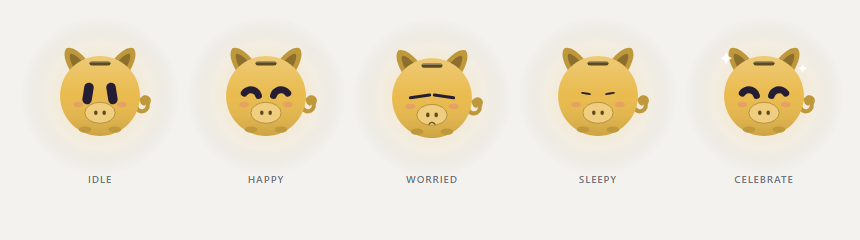
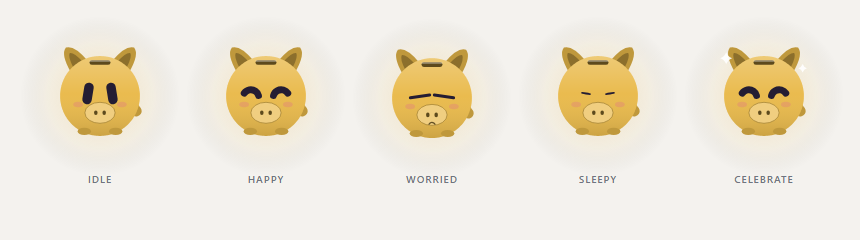
fix: keep the keeper attached while dragged
The body already deformed, but the snout, eyes, ears, slot, tail and feet were placed from the undeformed outline, so a diagonal pull left them floating. Every detail now goes through the same Gaussian displacement as the surface: decorations anchor on the deformed silhouette, rotate to its real normal and bury their base, and face features move by deformPoint. Verified against eight pull directions and ten shapes, at rest and at 45 degrees.

diff --git a/src/components/Mascot.tsx b/src/components/Mascot.tsx
@@ -5,7 +5,7 @@ import {
   deformOutline,
   followTarget,
   gripPhysics,
-  outlineCentroid,
+  deformPoint,
   pullTarget,
   type Point,
 } from "../lib/grab";
@@ -345,17 +345,8 @@ export function Mascot({
     const gaze = { x: 0, y: 0, tx: 0, ty: 0, seen: -10 };
     const radius = size * 0.3;
     const outline = bodyOutline(shape, radius);
-    const baseCenter = outlineCentroid(outline);
     // Decorations anchor to the real silhouette, so a pill or a star does not
     // leave the ears, the tail or the feet floating in empty space.
-    const pointAt = (angle: number): Point => {
-      if (outline.length === 0) {
-        return { x: Math.cos(angle) * radius * 0.92, y: Math.sin(angle) * radius * 0.92 };
-      }
-      const wrapped = ((angle % TAU) + TAU) % TAU;
-      const index = Math.round((wrapped / TAU) * outline.length) % outline.length;
-      return outline[index];
-    };
     const start = performance.now();
     let frame = 0;
     let nextBlink = 1.8;
@@ -400,6 +391,7 @@ export function Mascot({
       state.velocity += force * dt;
       state.value += state.velocity * dt;
     };
+
 
     const onPointerMove = (event: PointerEvent) => {
       const rect = hit.getBoundingClientRect();
@@ -608,12 +600,73 @@ export function Mascot({
 
       const bodyShade = shade(color, 0.82, 1);
 
+      // Everything below is anchored to the deformed outline, so the whole pig
+      // moves as one piece instead of leaving an ear, the slot or the snout
+      // behind when the body is pulled.
+      const deformed = deformOutline(
+        outline,
+        drag.anchorX,
+        drag.anchorY,
+        pullX.value,
+        pullY.value,
+        radius,
+      );
+      const body = outline.length > 0 ? pathFromPoints(deformed) : bodyPath(shape, radius);
+
+      const at = (angle: number): Point => {
+        if (deformed.length === 0) {
+          return { x: Math.cos(angle) * radius * 0.92, y: Math.sin(angle) * radius * 0.92 };
+        }
+        const wrapped = ((angle % TAU) + TAU) % TAU;
+        const index = Math.round((wrapped / TAU) * deformed.length) % deformed.length;
+        return deformed[index];
+      };
+      const move = (x: number, y: number) =>
+        deformPoint({ x, y }, drag.anchorX, drag.anchorY, pullX.value, pullY.value, radius);
+      // Rest position on the undeformed silhouette, scaled inwards, so a
+      // decoration starts buried in the body and is then moved by the same
+      // Gaussian the surface uses.
+      const restAt = (angle: number, scale = 1): Point => {
+        if (outline.length === 0) {
+          return {
+            x: Math.cos(angle) * radius * 0.92 * scale,
+            y: Math.sin(angle) * radius * 0.92 * scale,
+          };
+        }
+        const wrapped = ((angle % TAU) + TAU) % TAU;
+        const index = Math.round((wrapped / TAU) * outline.length) % outline.length;
+        const point = outline[index];
+        return { x: point.x * scale, y: point.y * scale };
+      };
+      const place = (angle: number, scale = 1): Point => {
+        const rest = restAt(angle, scale);
+        return move(rest.x, rest.y);
+      };
+      // Outward normal of the deformed surface, so a decoration stays glued to
+      // the silhouette instead of keeping the angle it had at rest.
+      const normalAt = (angle: number): number => {
+        if (deformed.length < 3) return angle;
+        const wrapped = ((angle % TAU) + TAU) % TAU;
+        const index = Math.round((wrapped / TAU) * deformed.length) % deformed.length;
+        const count = deformed.length;
+        const previous = deformed[(index - 1 + count) % count];
+        const next = deformed[(index + 1) % count];
+        const tangent = Math.atan2(next.y - previous.y, next.x - previous.x);
+        return tangent - Math.PI / 2;
+      };
+
       // Tail sits behind the body, on the right hip.
       if (tail) {
-        const anchor = pointAt(0.22);
+        const edge = at(0.22);
+        const normal = normalAt(0.22);
+        const inward = radius * 0.16;
+        const anchor = {
+          x: edge.x - Math.cos(normal) * inward,
+          y: edge.y - Math.sin(normal) * inward,
+        };
         context.save();
-        context.translate(anchor.x * 0.97, anchor.y * 0.97);
-        context.rotate(Math.atan2(anchor.y, anchor.x));
+        context.translate(anchor.x, anchor.y);
+        context.rotate(normal + Math.PI / 2);
         context.strokeStyle = bodyShade;
         context.lineWidth = Math.max(1.4, radius * 0.1);
         context.lineCap = "round";
@@ -629,10 +682,11 @@ export function Mascot({
       // Ears sit behind the body too, so only the tips show.
       if (ears) {
         for (const side of [-1, 1]) {
-          const anchor = pointAt(-Math.PI / 2 + side * 0.62);
+          const angle = -Math.PI / 2 + side * 0.62;
+          const anchor = at(angle);
           context.save();
-          context.translate(anchor.x * 0.98, anchor.y * 0.98);
-          context.rotate(Math.atan2(anchor.y, anchor.x) + Math.PI / 2);
+          context.translate(anchor.x, anchor.y);
+          context.rotate(normalAt(angle) + Math.PI / 2);
           context.beginPath();
           context.moveTo(-radius * 0.24, radius * 0.08);
           context.quadraticCurveTo(-radius * 0.2, -radius * 0.4, 0, -radius * 0.46);
@@ -653,21 +707,6 @@ export function Mascot({
         }
       }
 
-      const deformed = deformOutline(
-        outline,
-        drag.anchorX,
-        drag.anchorY,
-        pullX.value,
-        pullY.value,
-        radius,
-      );
-      const body = outline.length > 0 ? pathFromPoints(deformed) : bodyPath(shape, radius);
-      const deformedCenter = outlineCentroid(deformed);
-      const faceShift = {
-        x: deformedCenter.x - baseCenter.x,
-        y: deformedCenter.y - baseCenter.y,
-      };
-
       context.fillStyle = color;
       context.fill(body);
 
@@ -683,14 +722,15 @@ export function Mascot({
 
       // The coin slot is the detail that says "piggy bank" before anything else.
       if (slot) {
-        const anchor = pointAt(-Math.PI / 2);
+        const top = at(-Math.PI / 2);
+        const anchor = { x: top.x * 0.84, y: top.y * 0.84 };
         const width = radius * 0.5;
         const height = radius * 0.11;
         context.save();
         // The slot belongs to the body, so a star or a drop must clip it.
         context.clip(body);
-        context.translate(anchor.x * 0.82, anchor.y * 0.82);
-        context.rotate(Math.atan2(anchor.y, anchor.x) + Math.PI / 2);
+        context.translate(anchor.x, anchor.y);
+        context.rotate(normalAt(-Math.PI / 2) + Math.PI / 2);
         context.fillStyle = shade(color, 0.4, 1);
         context.beginPath();
         context.roundRect(-width / 2, -height / 2, width, height, height / 2);
@@ -701,9 +741,6 @@ export function Mascot({
         context.fill();
         context.restore();
       }
-
-      context.save();
-      context.translate(faceShift.x, faceShift.y);
 
       const sizeScale =
         (eyeSize === "small" ? 0.82 : eyeSize === "large" ? 1.22 : 1) * (hovering ? 1.035 : 1);
@@ -737,9 +774,10 @@ export function Mascot({
         const cheerful =
           happy > 0.55 && (style === "bars" || style === "dots" || style === "sleepy");
         const drawArc = closed || cheerful || style === "arcs";
+        const position = move(eyeX, eyeY - eyeLift);
 
         context.save();
-        context.translate(eyeX, eyeY - eyeLift);
+        context.translate(position.x, position.y);
         context.rotate(sadEyes ? side * 0.14 : side * tiltAngle);
         context.scale(1, Math.max(0.08, eyeOpen));
 
@@ -786,25 +824,19 @@ export function Mascot({
       if (blush) {
         context.fillStyle = "rgba(226, 110, 138, 0.3)";
         for (const side of [-1, 1]) {
+          const position = move(side * radius * 0.52, radius * 0.2);
           context.beginPath();
-          context.ellipse(
-            side * radius * 0.52,
-            radius * 0.2,
-            radius * 0.115,
-            radius * 0.065,
-            0,
-            0,
-            TAU,
-          );
+          context.ellipse(position.x, position.y, radius * 0.115, radius * 0.065, 0, 0, TAU);
           context.fill();
         }
       }
 
       if (snout) {
         const snoutY = radius * 0.4;
+        const centerPoint = move(0, snoutY);
         context.fillStyle = lighten(color, 0.3);
         context.beginPath();
-        context.ellipse(0, snoutY, radius * 0.36, radius * 0.25, 0, 0, TAU);
+        context.ellipse(centerPoint.x, centerPoint.y, radius * 0.36, radius * 0.25, 0, 0, TAU);
         context.fill();
         context.strokeStyle = shade(color, 0.7, 0.75);
         context.lineWidth = Math.max(1, radius * 0.02);
@@ -812,41 +844,33 @@ export function Mascot({
 
         context.fillStyle = shade(color, 0.4, 1);
         for (const side of [-1, 1]) {
+          const nostril = move(side * radius * 0.1, snoutY);
           context.beginPath();
-          context.ellipse(
-            side * radius * 0.1,
-            snoutY,
-            radius * 0.042,
-            radius * 0.055,
-            0,
-            0,
-            TAU,
-          );
+          context.ellipse(nostril.x, nostril.y, radius * 0.042, radius * 0.055, 0, 0, TAU);
           context.fill();
         }
       }
 
       if (moodSad) {
+        const frown = move(0, radius * 0.66);
         context.strokeStyle = shade(color, 0.35, 0.9);
         context.lineWidth = Math.max(1.1, radius * 0.03);
         context.lineCap = "round";
         context.beginPath();
-        context.arc(0, radius * 0.66, radius * 0.08, Math.PI * 1.15, Math.PI * 1.85);
+        context.arc(frown.x, frown.y, radius * 0.08, Math.PI * 1.15, Math.PI * 1.85);
         context.stroke();
       }
-
-      context.restore();
 
       // Feet come last so they sit in front of the belly.
       context.fillStyle = bodyShade;
       for (const side of [-1, 1]) {
-        const anchor = pointAt(Math.PI / 2 - side * 0.42);
+        const anchor = place(Math.PI / 2 - side * 0.42, 0.97);
         context.beginPath();
         context.ellipse(
-          anchor.x * 0.92,
-          anchor.y * 0.92,
-          radius * 0.15,
-          radius * 0.075,
+          anchor.x,
+          anchor.y,
+          radius * 0.16,
+          radius * 0.085,
           0,
           0,
           TAU,
@@ -860,8 +884,9 @@ export function Mascot({
           [-0.9, -0.9, 0.14],
           [0.92, -0.66, 0.1],
         ]) {
+          const position = move(radius * x, radius * y);
           context.save();
-          context.translate(radius * x, radius * y);
+          context.translate(position.x, position.y);
           sparklePath(context, radius * scale * 2, radius * scale * 2);
           context.fill();
           context.restore();
@@ -869,6 +894,7 @@ export function Mascot({
       }
 
       context.restore();
+
       if (animate) frame = requestAnimationFrame(draw);
     };
 

diff --git a/src/lib/grab.ts b/src/lib/grab.ts
@@ -91,6 +91,32 @@ export function outlineCentroid(points: Point[]): Point {
 }
 
 /**
+ * Local displacement of one point, with the same Gaussian the outline uses.
+ * Face features and decorations go through this so nothing stays behind when
+ * the body is pulled.
+ */
+export function deformPoint(
+  point: Point,
+  anchorX: number,
+  anchorY: number,
+  pullX: number,
+  pullY: number,
+  radius: number,
+): Point {
+  const amount = Math.hypot(pullX, pullY);
+  if (!Number.isFinite(amount) || amount < 0.01) return point;
+
+  const safe = safeRadius(radius);
+  const ratio = clamp(amount / (safe * GRAB.maxPull), 0, 1);
+  const sigma = safe * (GRAB.falloffNear + (GRAB.falloffFar - GRAB.falloffNear) * ratio);
+  const denominator = 2 * sigma * sigma;
+  const dx = point.x - anchorX;
+  const dy = point.y - anchorY;
+  const weight = Math.exp(-(dx * dx + dy * dy) / denominator);
+  return { x: point.x + pullX * weight, y: point.y + pullY * weight };
+}
+
+/**
  * Deforms the sampled body outline with a Gaussian falloff around the grabbed
  * point. The anchor moves exactly by the pull, points near it follow most of
  * the way, and the far side barely moves. A wider falloff at bigger pulls keeps
@@ -107,20 +133,9 @@ export function deformOutline(
   const amount = Math.hypot(pullX, pullY);
   if (!Number.isFinite(amount) || amount < 0.01) return points;
 
-  const safe = safeRadius(radius);
-  const ratio = clamp(amount / (safe * GRAB.maxPull), 0, 1);
-  const sigma = safe * (GRAB.falloffNear + (GRAB.falloffFar - GRAB.falloffNear) * ratio);
-  const denominator = 2 * sigma * sigma;
-
-  return points.map((point) => {
-    const dx = point.x - anchorX;
-    const dy = point.y - anchorY;
-    const weight = Math.exp(-(dx * dx + dy * dy) / denominator);
-    return {
-      x: point.x + pullX * weight,
-      y: point.y + pullY * weight,
-    };
-  });
+  return points.map((point) =>
+    deformPoint(point, anchorX, anchorY, pullX, pullY, radius),
+  );
 }
 
 export interface GripPhysics {
